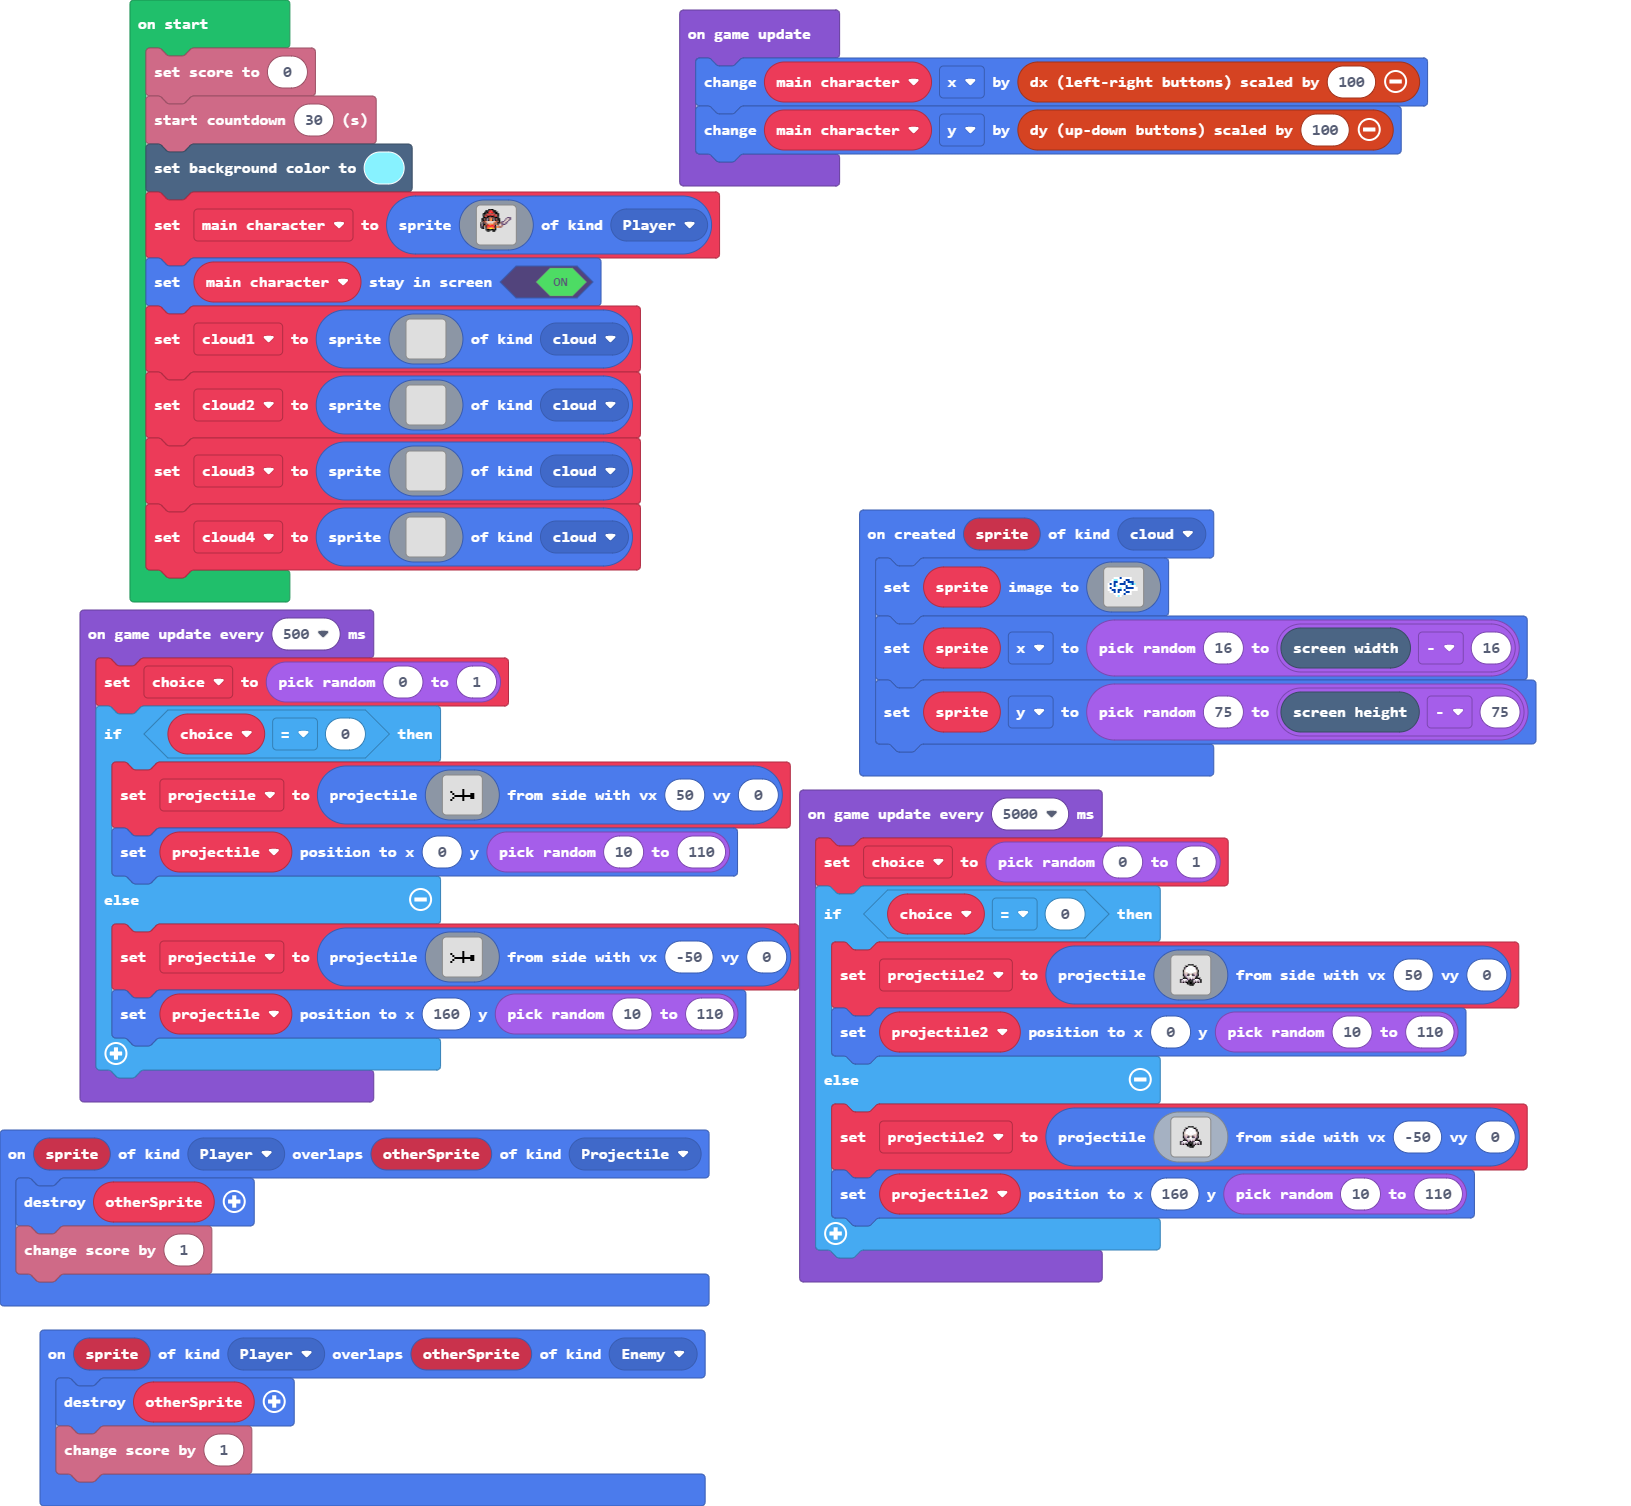
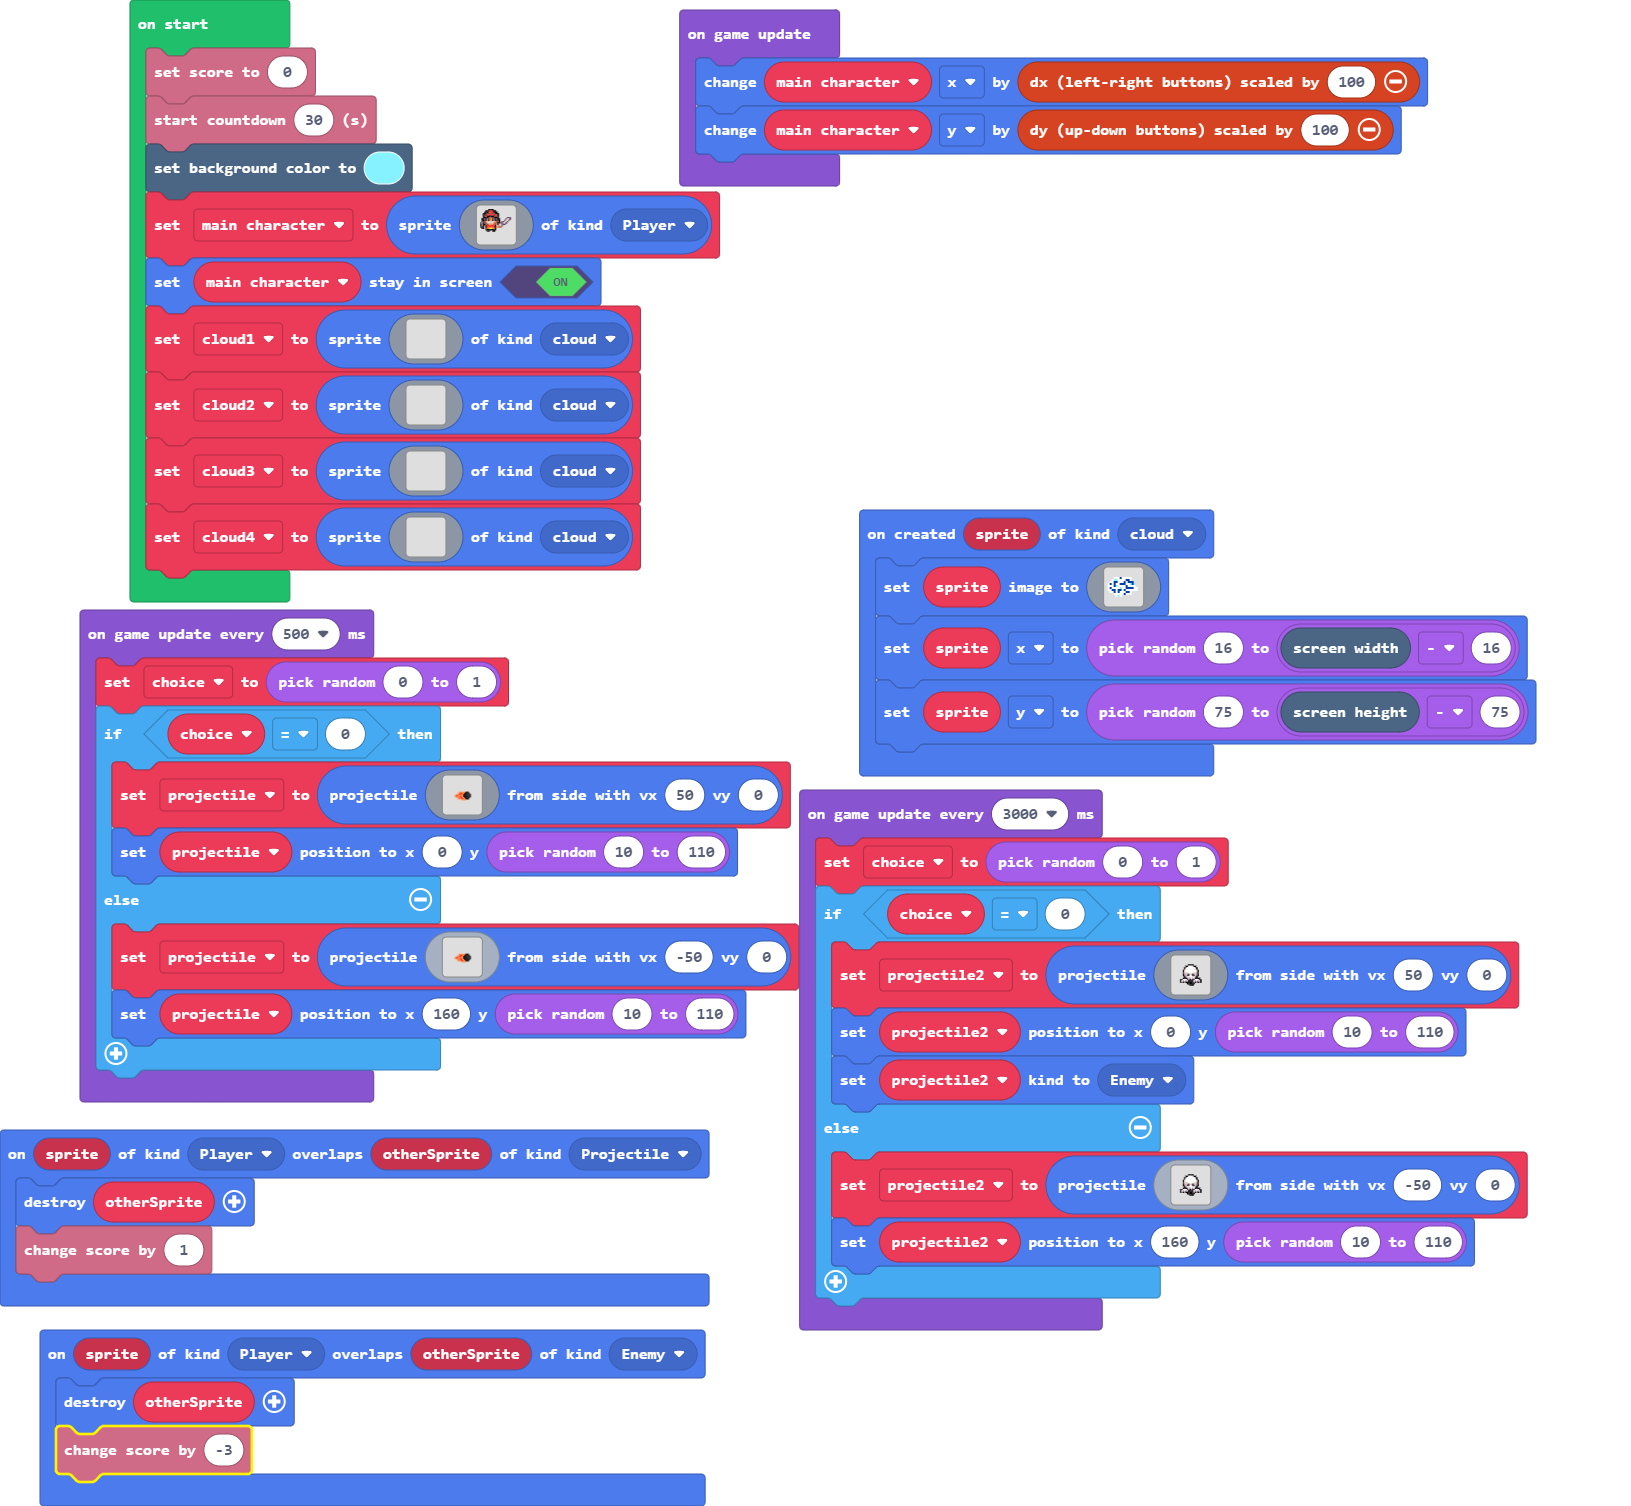
change kind to enemy, changes second of the enemy and score of the enemy.

diff --git a/main.ts b/main.ts
@@ -4,15 +4,10 @@ namespace SpriteKind {
     export const landpad = SpriteKind.create()
     export const bird = SpriteKind.create()
     export const dead = SpriteKind.create()
-    export const Projectile2 = SpriteKind.create()
 }
 sprites.onOverlap(SpriteKind.Player, SpriteKind.Projectile, function (sprite, otherSprite) {
     otherSprite.destroy()
     info.changeScoreBy(1)
-})
-sprites.onOverlap(SpriteKind.Player, SpriteKind.Projectile2, function (sprite, otherSprite) {
-    otherSprite.destroy()
-    info.changeScoreBy(-3)
 })
 sprites.onCreated(SpriteKind.cloud, function (sprite) {
     sprite.setImage(img`
@@ -35,6 +30,10 @@ sprites.onCreated(SpriteKind.cloud, function (sprite) {
         `)
     sprite.x = randint(16, scene.screenWidth() - 16)
     sprite.y = randint(75, scene.screenHeight() - 75)
+})
+sprites.onOverlap(SpriteKind.Player, SpriteKind.Enemy, function (sprite, otherSprite) {
+    otherSprite.destroy()
+    info.changeScoreBy(-3)
 })
 let projectile2: Sprite = null
 let projectile: Sprite = null
@@ -148,41 +147,10 @@ game.onUpdate(function () {
 game.onUpdateInterval(500, function () {
     choice = randint(0, 1)
     if (choice == 0) {
-        projectile = sprites.createProjectileFromSide(img`
-            ..............................
-            ..............................
-            ..............................
-            ..............................
-            ..............................
-            ..............................
-            ..............................
-            ..............................
-            ..............................
-            ..............................
-            ..............................
-            ..............................
-            ............444444fff.........
-            ...........442244fffff........
-            .........4442244fffffff.......
-            ........42244444fffffff.......
-            ........44244244fffffff.......
-            ..........4442244fffff........
-            ...........4442244fff.........
-            ..............4444............
-            ..............................
-            ..............................
-            ..............................
-            ..............................
-            ..............................
-            ..............................
-            ..............................
-            ..............................
-            ..............................
-            ..............................
-            `, 50, 0)
+        projectile = sprites.createProjectileFromSide(assets.image`fireball2`, 50, 0)
         projectile.setPosition(0, randint(10, 110))
     } else {
-        projectile = sprites.createProjectileFromSide(assets.image`fireball`, -50, 0)
+        projectile = sprites.createProjectileFromSide(assets.image`fireball2`, -50, 0)
         projectile.setPosition(160, randint(10, 110))
     }
 })
@@ -216,7 +184,7 @@ game.onUpdateInterval(3000, function () {
             ........................
             `, 50, 0)
         projectile2.setPosition(0, randint(10, 110))
-        projectile2.setKind(SpriteKind.Projectile2)
+        projectile2.setKind(SpriteKind.Enemy)
     } else {
         projectile2 = sprites.createProjectileFromSide(img`
             ........................

diff --git a/images.g.ts b/images.g.ts
@@ -4,7 +4,7 @@ namespace myImages {
     helpers._registerFactory("image", function(name: string) {
         switch(helpers.stringTrim(name)) {
             case "DD[m6#R7a0/;T8lr#rSS":
-            case "fireball":return img`
+            case "fireball2":return img`
 ..............................
 ..............................
 ..............................
@@ -17,14 +17,14 @@ namespace myImages {
 ..............................
 ..............................
 ..............................
-.........fff444444............
-........fffff442244...........
-.......fffffff4422444.........
-.......fffffff44444224........
-.......fffffff44244244........
-........fffff4422444..........
-.........fff4422444...........
-............4444..............
+............444444fff.........
+...........442244fffff........
+.........4442244fffffff.......
+........42244444fffffff.......
+........44244244fffffff.......
+..........4442244fffff........
+...........4442244fff.........
+..............4444............
 ..............................
 ..............................
 ..............................
